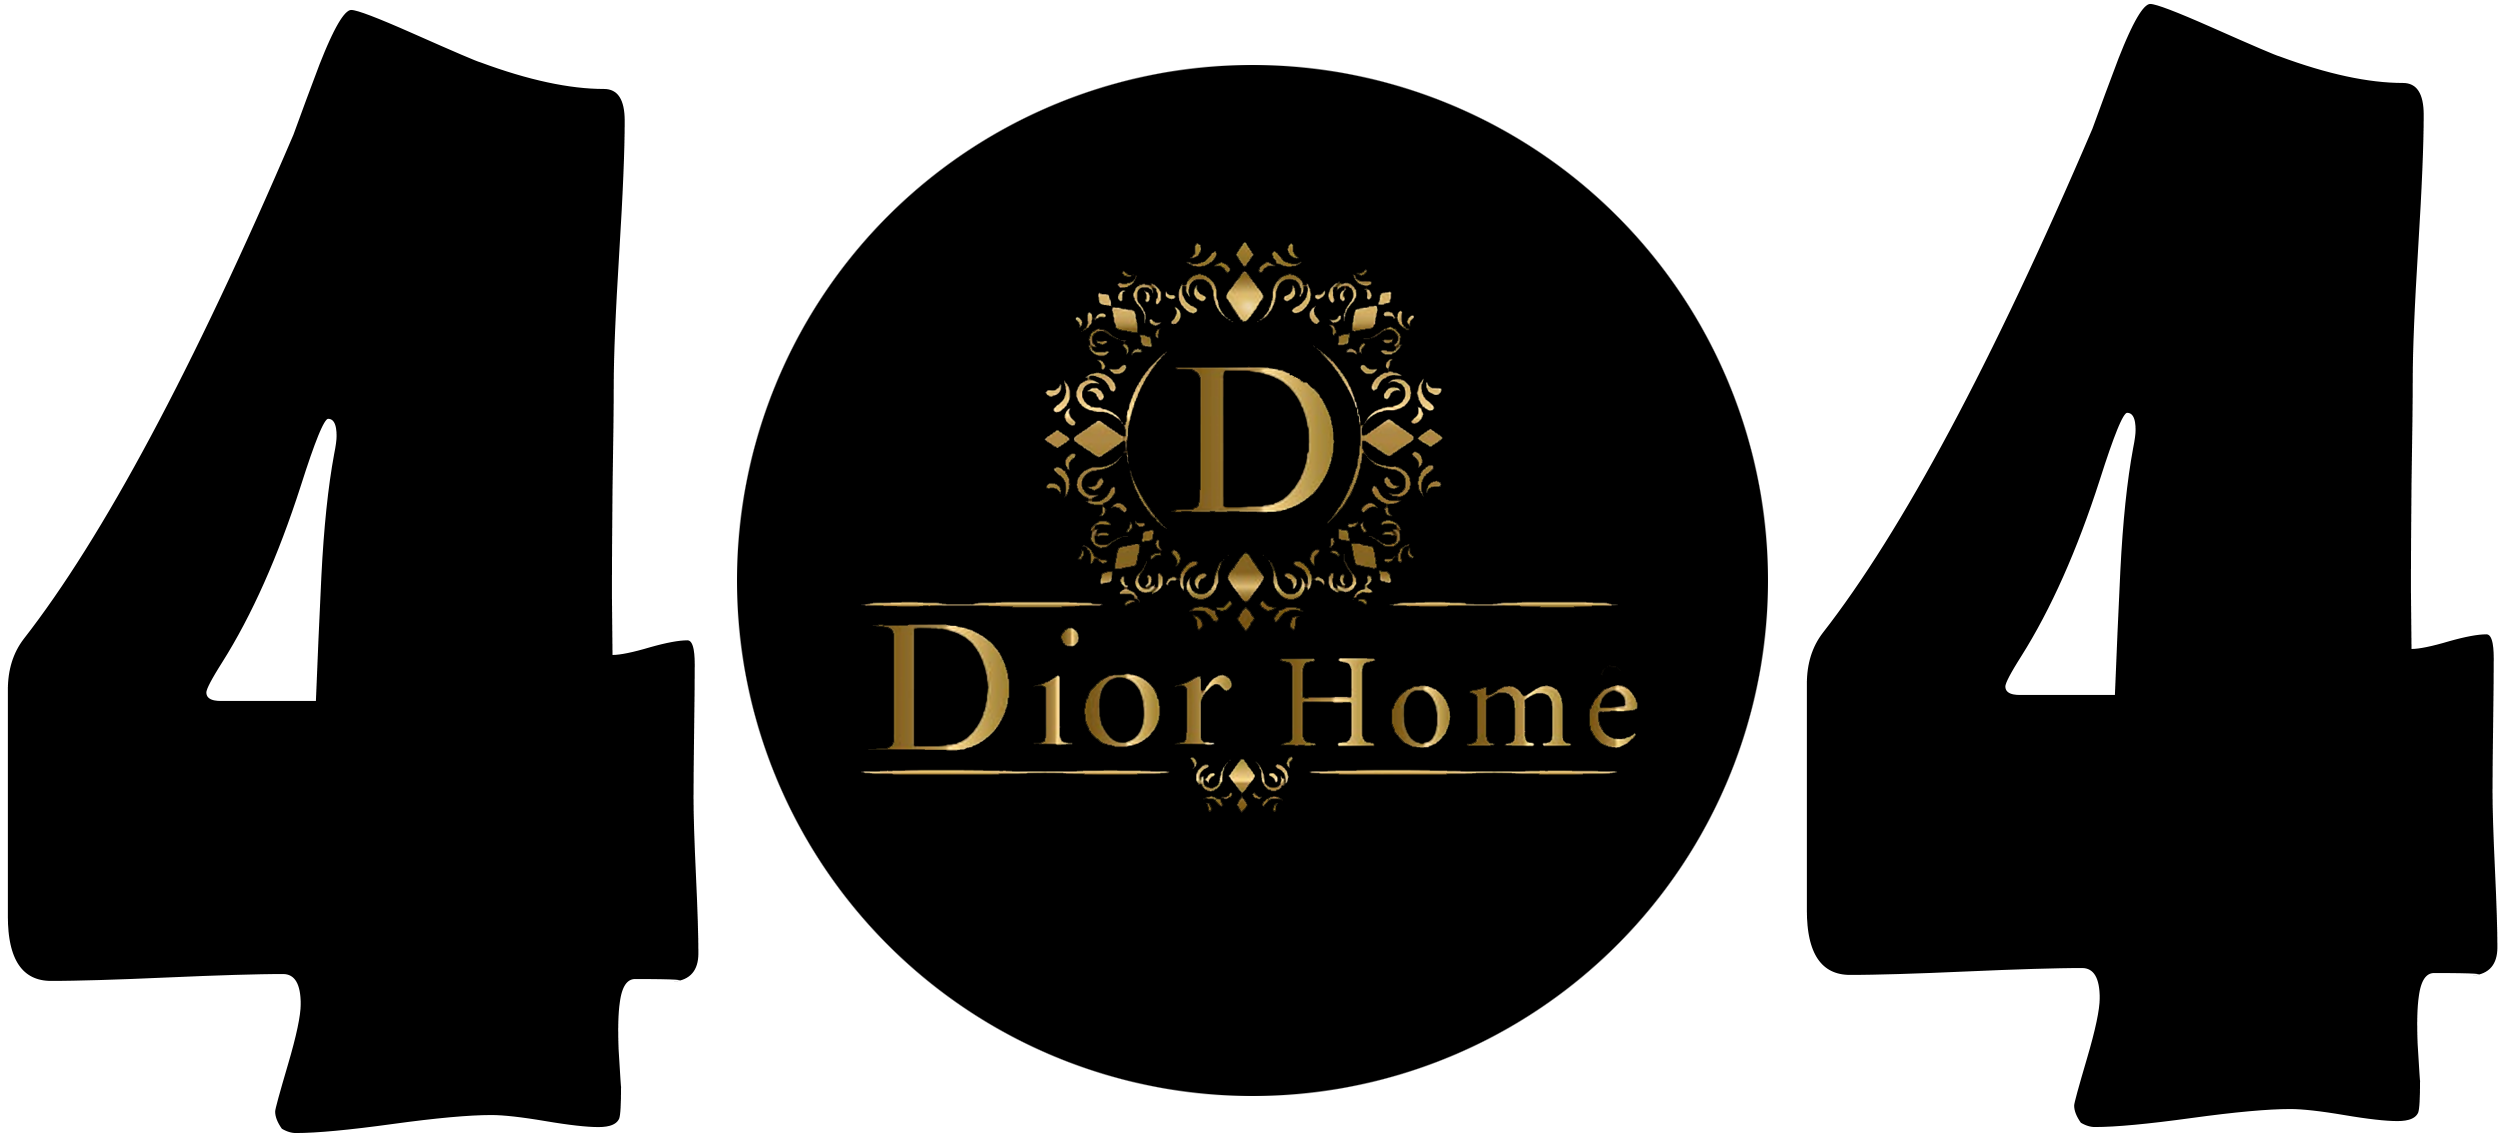
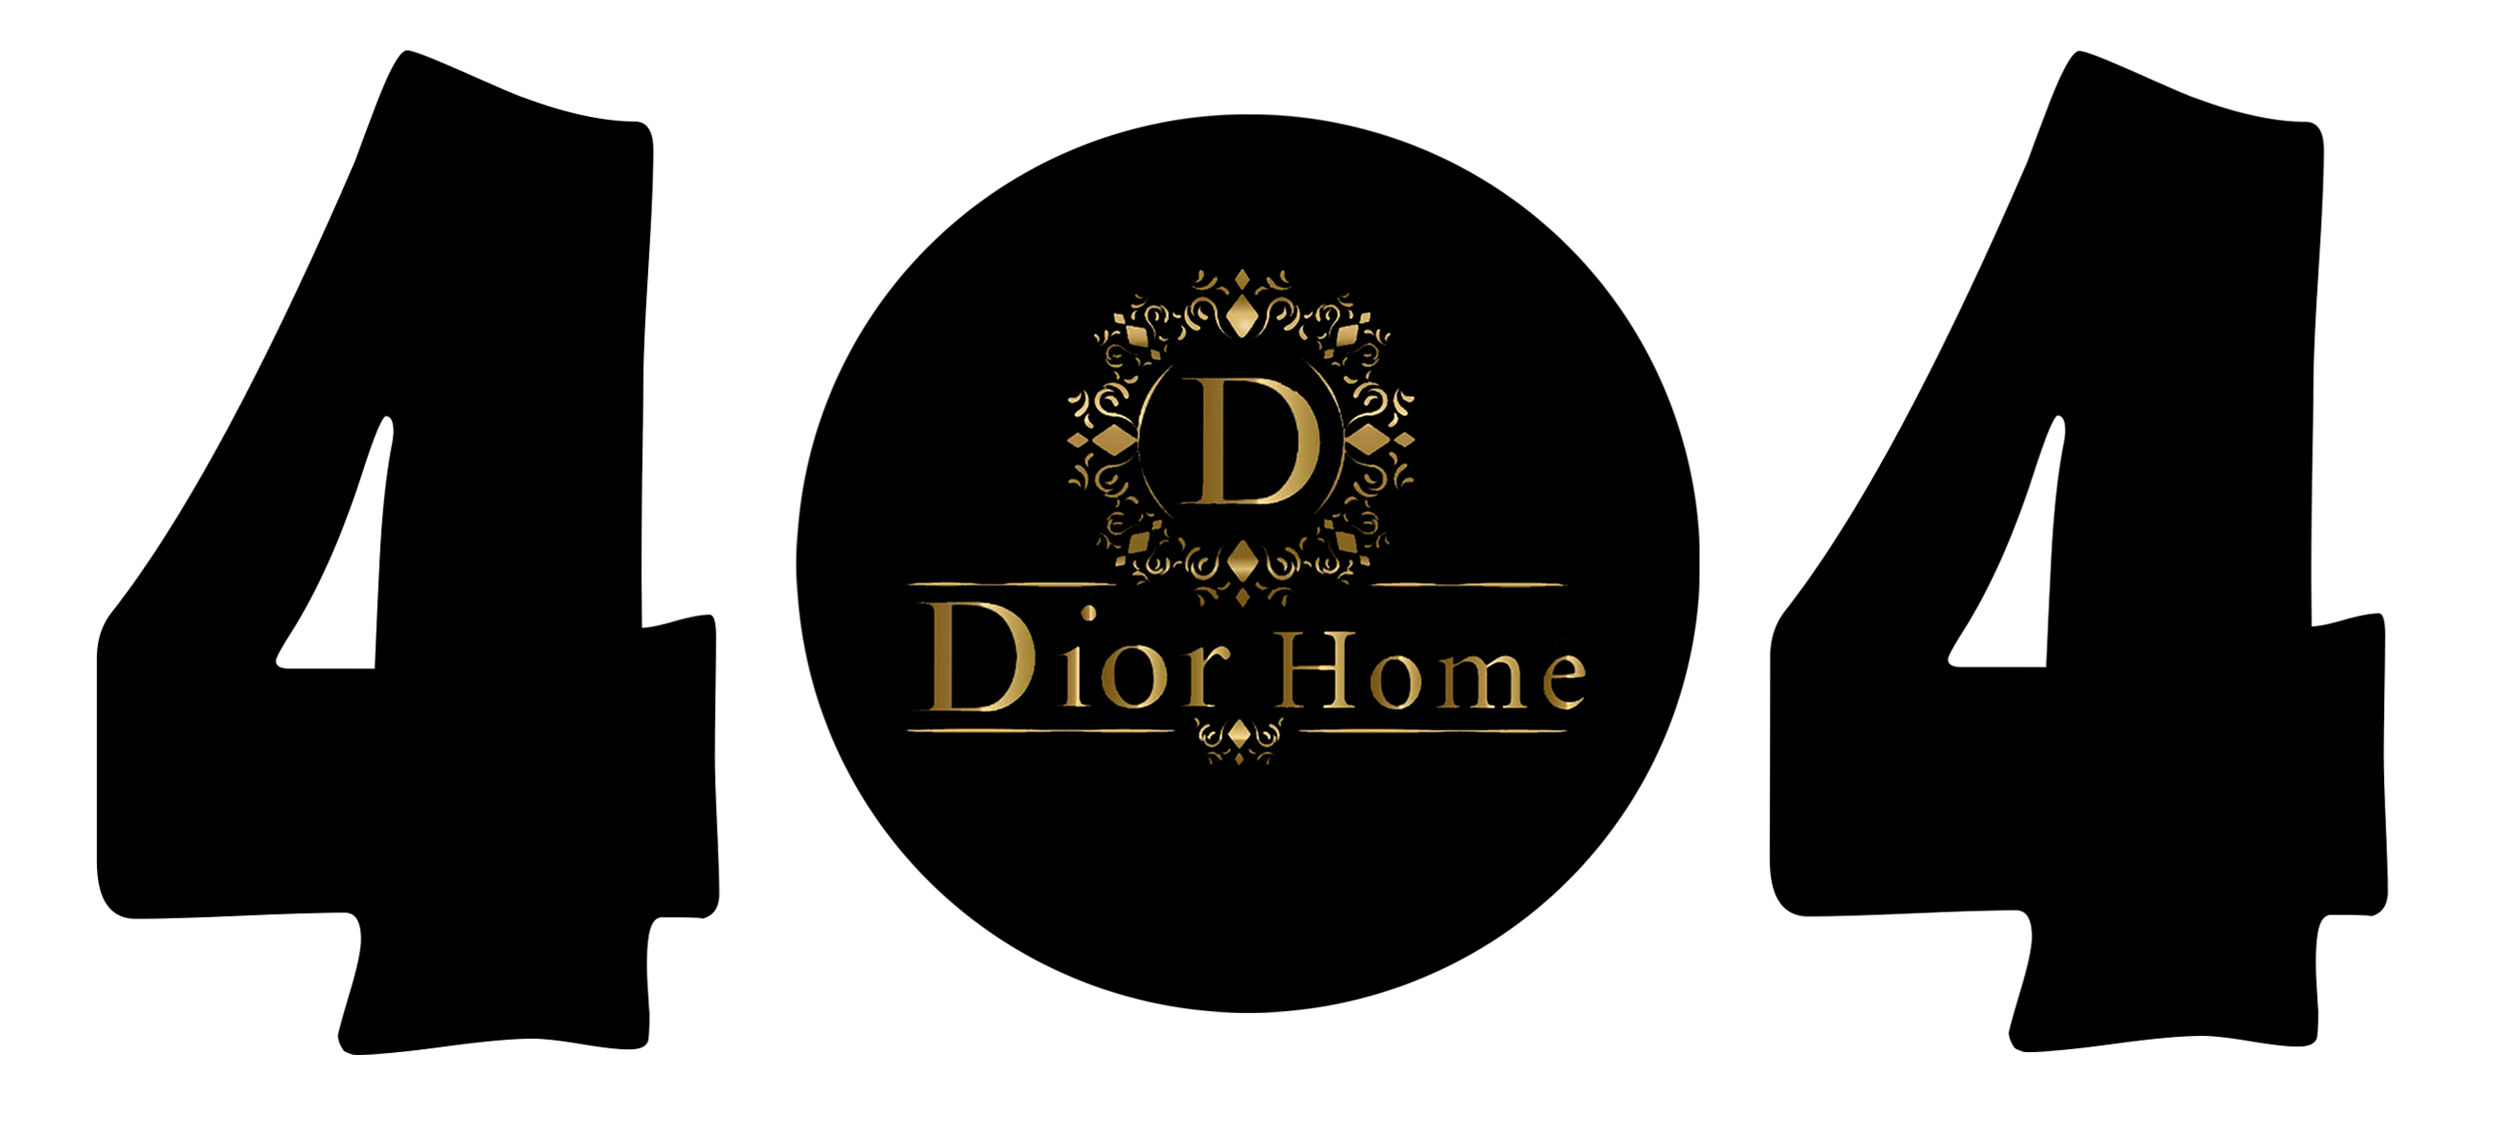
added a 403 error page

Changed region(s): [[0.1865, 0.0, 1.0, 1.0], [0.0, 0.0, 0.2798, 1.0]]

diff --git a/httpdocs/custom_errors/CSS/403.css b/httpdocs/custom_errors/CSS/403.css
@@ -1,0 +1,131 @@
+* {
+  padding: 0;
+  margin: 0;
+}
+
+@font-face {
+  src: url(https://diorhome.ir/Fonts/IRANSansWeb_Bold.ttf);
+  font-family: "IranSans";
+}
+
+p,
+span,
+h1,
+h2,
+h3,
+h4,
+h5,
+h6 {
+  font-family: "IranSans";
+  direction: rtl;
+}
+
+body > main {
+  background-image: url(../images/404background_image3.jpg);
+  background-size: cover;
+  width: 100%;
+  height: 100vh;
+}
+
+div.custom-error {
+  padding: 2rem;
+  text-align: center;
+}
+
+div.custom-error > span {
+  font-size: 6rem;
+}
+
+section.error-message {
+  text-align: center;
+}
+
+section.error-message {
+  padding: 2rem 1rem;
+  background-color: rgba(0, 0, 0, 0.5);
+  width: 50%;
+  margin-left: auto;
+  margin-right: auto;
+  border-radius: 15px;
+}
+
+section.error-message > p {
+  padding: 0 0 4rem 0;
+  color: white;
+}
+section.error-message > div {
+  border-radius: 5px;
+  width: 30%;
+  overflow: hidden;
+  background-color: teal;
+  display: flex;
+  flex-direction: row-reverse;
+  position: relative;
+  margin-left: auto;
+  margin-right: auto;
+}
+section.error-message > div > div.overlayer {
+  position: absolute;
+  left: 0;
+  right: 0;
+  bottom: 0;
+  top: 0;
+  display: flex;
+  flex-direction: row-reverse;
+  background-color: #c6c6c6;
+  display: none;
+  cursor: pointer;
+  -webkit-animation-name: hover;
+  animation-name: hover;
+  -webkit-animation-duration: 250ms;
+  animation-duration: 250ms;
+  -webkit-animation-timing-function: linear;
+  animation-timing-function: linear;
+  -webkit-animation-fill-mode: forwards;
+  animation-fill-mode: forwards;
+  z-index: 1;
+}
+
+section.error-message > div > a,
+section.error-message > div > div.overlayer > a {
+  color: white;
+  padding: 0 0 0 1rem;
+  font-family: "iranSans";
+  text-decoration: none;
+  align-self: center;
+  margin-right: 1.5rem;
+}
+section.error-message > div > i,
+section.error-message > div > div.overlayer > i {
+  padding: 1rem;
+  color: white;
+  width: 15px;
+  height: 15px;
+  border-radius: 45%;
+  background-color: #c6c6c6;
+  transform: translateX(25%);
+}
+
+@-webkit-keyframes hover {
+  from {
+    left: 100%;
+  }
+
+  to {
+    left: 0;
+  }
+}
+
+@keyframes hover {
+  from {
+    left: 100%;
+  }
+
+  to {
+    left: 0;
+  }
+}
+
+section.error-message > div:hover > div.overlayer {
+  display: flex;
+}

diff --git a/httpdocs/custom_errors/403.php b/httpdocs/custom_errors/403.php
@@ -38,16 +38,16 @@
         <link rel="stylesheet" href="https://diorhome.ir/CSS/all.min.css" />
         <link rel="stylesheet" href="CSS/Normalizer.css" />
         <link rel="stylesheet" href="CSS/fonts.css" />
-        <link rel="stylesheet" href="https://diorhome.ir/custom_errors/CSS/404.css">
+        <link rel="stylesheet" href="https://diorhome.ir/custom_errors/CSS/403.css">
         <title>پيشگامان پودينه - صفحه اصلی</title>
     </head>
     <body>
         <main>
             <div class="custom-error">
-                <img src="https://diorhome.ir/custom_errors/images/404_error.png" alt="404 error page image" width="30%" height="auto" >
+                <img src="https://diorhome.ir/custom_errors/images/403_error.png" alt="403 error page image" width="30%" height="auto" >
             </div>
             <section class="error-message">
-                <p>متاسفانه صفحه مورد نظر شما یافت نشد. لطفا از لینک زیر برای بازگشت به صفحه اصلی استفاده کنید:</p>
+                <p>متاسفانه دسترسی به فولدر مورد نظر شما امكان پذير نيست. لطفا از لینک زیر برای رفتن به صفحه اصلی استفاده کنید:</p>
                 <div>
                     <i class="fas fa-chevron-left"></i>
                     <a href="https://diorhome.ir">برو به خانه</a>
